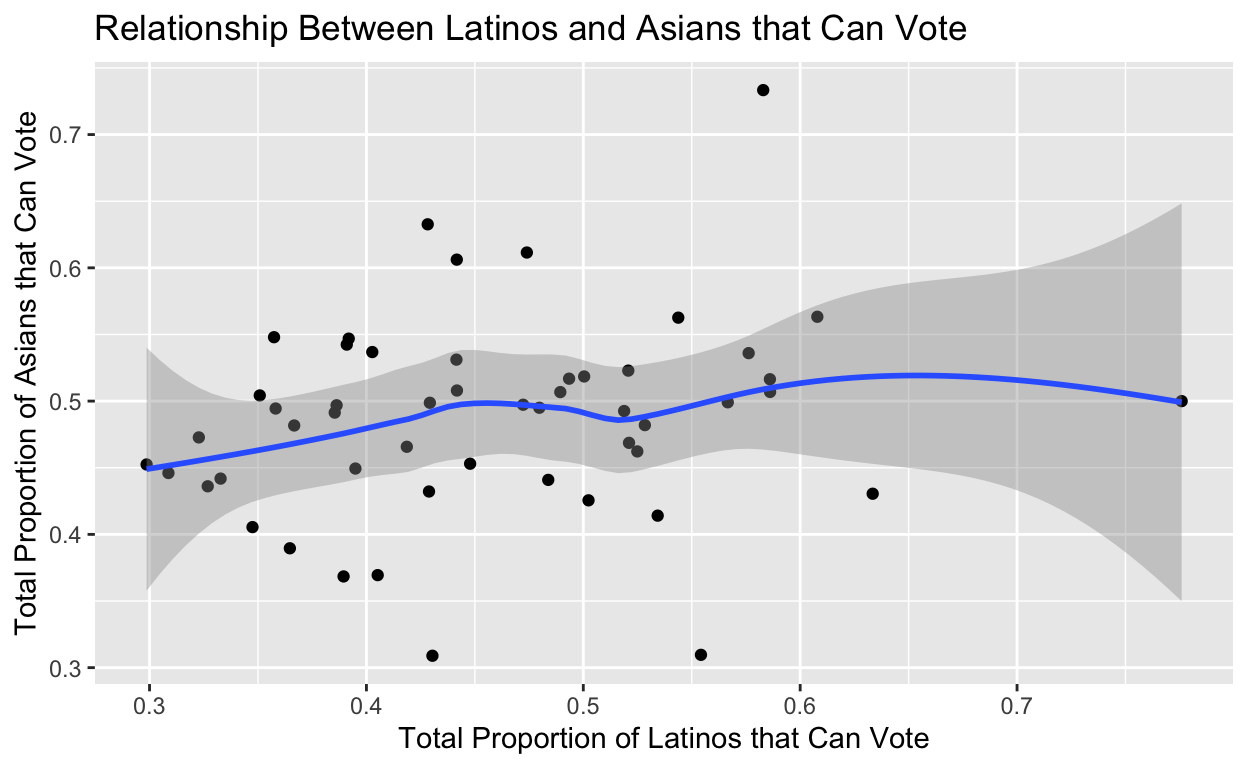
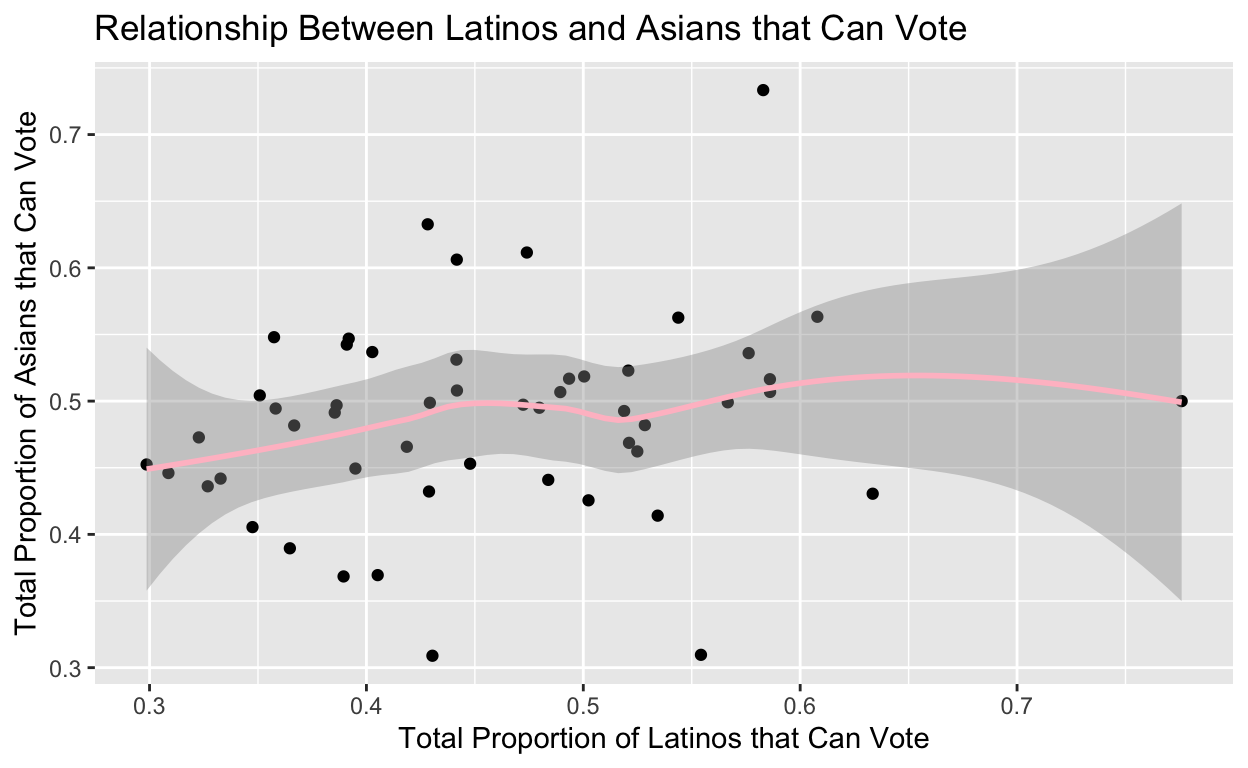
.

diff --git a/index.html b/index.html
@@ -1522,17 +1522,8 @@ code span.wa { color: #5e5e5e; font-style: italic; } /* Warning */
 <h2 id="data-and-research-design">Data and Research Design</h2>
 <p>My final project will be a longitudinal observational study. To investigate the relationship, my explanatory variable is the proportion of Latinos that can vote. My outcome variable is the proportion of Asians that can vote. Lastly, my control variables are the total amount of Latinos in the states and the total amount of Asians in the states.</p>
 <p>here are the definitions of the following variables I will use:</p>
-<p>GEONAME: The name of the geographic area, specifically states across the U.S.
-TOT_EST_Asian: The rounded estimate of the total number of Asians in a geographical area.
-TOT_EST_Latino: The rounded estimate of the total number of Latinos in a geographical area.
-ADU_EST_Asian: The rounded estimate of the total number of people 18 years of age or older for Asians in a specific state.
-ADU_EST_Latino: The rounded estimate of the total number of people 18 years of age or older for Latinos in a specific state.
-CIT_EST_Asian: The rounded estimate of the total number of United States citizens for Asians in a geographical area.
-CIT_EST_Latino: The rounded estimate of the total number of United States citizens for Latinos in a geographical area.
-CVAP_EST_Asian: The rounded estimate of the total number of United States citizens 18 years of age or older for Asians in a specific state.
-CVAP_EST_Latino: The rounded estimate of the total number of United States citizens 18 years of age or older for Latinos in a specific state.
-CVAP_prop_Latino: The rounded estimate of the total number of Latinos that are United States citizens 18 years of age or older that can vote.
-CVAP_prop_Asian: The rounded estimate of the total number of Asians that are United States citizens 18 years of age or older that can vote.</p>
+<p>CVAP_prop_Latino: The proportion of Latinos that are United States citizens 18 years of age or older that can vote.
+CVAP_prop_Asian: The proportion of Asians that are United States citizens 18 years of age or older that can vote.</p>
 <div class="layout-chunk" data-layout="l-body">
 <div class="sourceCode">
 <pre class="sourceCode r"><code class="sourceCode r"><span><span class='kw'><a href='https://rdrr.io/r/base/library.html'>library</a></span><span class='op'>(</span><span class='va'><a href='https://tidyverse.tidyverse.org'>tidyverse</a></span><span class='op'>)</span></span>
@@ -1552,29 +1543,15 @@ CVAP_prop_Asian: The rounded estimate of the total number of Asians that are Uni
 <span>    names_from <span class='op'>=</span> <span class='va'>LNTITLE</span>,</span>
 <span>    values_from <span class='op'>=</span> <span class='fu'><a href='https://rdrr.io/r/base/c.html'>c</a></span><span class='op'>(</span><span class='va'>TOT_EST</span>, <span class='va'>ADU_EST</span>, <span class='va'>CIT_EST</span>, <span class='va'>CVAP_EST</span><span class='op'>)</span></span>
 <span>  <span class='op'>)</span> <span class='op'>|&gt;</span></span>
-<span>  <span class='fu'><a href='https://dplyr.tidyverse.org/reference/mutate.html'>mutate</a></span><span class='op'>(</span>CVAP_prop_Latino <span class='op'>=</span> <span class='va'>CVAP_EST_Latino</span><span class='op'>/</span><span class='va'>TOT_EST_Latino</span><span class='op'>)</span> <span class='op'>|&gt;</span></span>
-<span>  <span class='fu'><a href='https://dplyr.tidyverse.org/reference/mutate.html'>mutate</a></span><span class='op'>(</span>CVAP_prop_Asian <span class='op'>=</span> <span class='va'>CVAP_EST_Asian</span><span class='op'>/</span><span class='va'>TOT_EST_Asian</span><span class='op'>)</span></span>
-<span><span class='va'>cvap_data</span></span></code></pre>
+<span>  <span class='fu'><a href='https://dplyr.tidyverse.org/reference/mutate.html'>mutate</a></span><span class='op'>(</span>CVAP_prop_Latino <span class='op'>=</span> <span class='va'>CVAP_EST_Latino</span><span class='op'>/</span><span class='va'>TOT_EST_Latino</span>,</span>
+<span>         CVAP_prop_Asian <span class='op'>=</span> <span class='va'>CVAP_EST_Asian</span><span class='op'>/</span><span class='va'>TOT_EST_Asian</span>,</span>
+<span>         ADU_prop_Latino <span class='op'>=</span> <span class='va'>ADU_EST_Latino</span><span class='op'>/</span><span class='va'>TOT_EST_Latino</span>,</span>
+<span>         ADU_prop_Asian <span class='op'>=</span> <span class='va'>ADU_EST_Asian</span><span class='op'>/</span><span class='va'>TOT_EST_Asian</span>,</span>
+<span>         NONCIT_prop_Latino <span class='op'>=</span> <span class='op'>(</span><span class='va'>TOT_EST_Latino</span> <span class='op'>-</span> <span class='va'>CIT_EST_Latino</span><span class='op'>)</span><span class='op'>/</span><span class='va'>TOT_EST_Latino</span>,</span>
+<span>         NONCIT_prop_Asian <span class='op'>=</span> <span class='op'>(</span><span class='va'>TOT_EST_Asian</span> <span class='op'>-</span> <span class='va'>CIT_EST_Asian</span><span class='op'>)</span><span class='op'>/</span><span class='va'>TOT_EST_Asian</span><span class='op'>)</span></span></code></pre>
 </div>
-<pre><code># A tibble: 52 × 11
-   GEONAME     TOT_E…¹ TOT_E…² ADU_E…³ ADU_E…⁴ CIT_E…⁵ CIT_E…⁶ CVAP_…⁷
-   &lt;chr&gt;         &lt;int&gt;   &lt;int&gt;   &lt;int&gt;   &lt;int&gt;   &lt;int&gt;   &lt;int&gt;   &lt;int&gt;
- 1 Alabama       63730  1.98e5   48885  1.21e5   40295  1.38e5   28160
- 2 Alaska        44940  5.02e4   34315  3.27e4   31995  4.66e4   22780
- 3 Arizona      210115  2.10e6  168125  1.39e6  143765  1.73e6  108595
- 4 Arkansas      42870  2.13e5   32790  1.30e5   27145  1.48e5   18695
- 5 California  5473875  1.51e7 4465975  1.04e7 4254285  1.17e7 3347230
- 6 Colorado     163860  1.16e6  128030  7.68e5  114960  9.53e5   84960
- 7 Connecticut  157825  5.52e5  123535  3.78e5  101065  4.56e5   72955
- 8 Delaware      36455  8.48e4   28645  5.41e4   22455  6.59e4   15755
- 9 District o…   25645  7.18e4   23470  5.31e4   17435  4.87e4   15545
-10 Florida      544315  5.02e6  439775  3.78e6  397430  3.87e6  306245
-# … with 42 more rows, 3 more variables: CVAP_EST_Latino &lt;int&gt;,
-#   CVAP_prop_Latino &lt;dbl&gt;, CVAP_prop_Asian &lt;dbl&gt;, and abbreviated
-#   variable names ¹TOT_EST_Asian, ²TOT_EST_Latino, ³ADU_EST_Asian,
-#   ⁴ADU_EST_Latino, ⁵CIT_EST_Asian, ⁶CIT_EST_Latino, ⁷CVAP_EST_Asian</code></pre>
 </div>
-<h2 id="distribution-plot">Distribution Plot</h2>
+<h3 id="distribution-plot">Distribution Plot</h3>
 <div class="layout-chunk" data-layout="l-body">
 <div class="sourceCode">
 <pre class="sourceCode r"><code class="sourceCode r"><span><span class='va'>cvap_data</span> <span class='op'>|&gt;</span></span>
@@ -1587,40 +1564,100 @@ CVAP_prop_Asian: The rounded estimate of the total number of Asians that are Uni
 <p><img src="index_files/figure-html5/unnamed-chunk-3-1.png" width="624" /></p>
 </div>
 <h2 id="results">Results</h2>
-<h2 id="plot-summary">Plot Summary</h2>
+<h3 id="plot-summary">Plot Summary</h3>
 <div class="layout-chunk" data-layout="l-body">
 <div class="sourceCode">
 <pre class="sourceCode r"><code class="sourceCode r"><span><span class='va'>cvap_data</span> <span class='op'>|&gt;</span></span>
 <span>  <span class='fu'><a href='https://ggplot2.tidyverse.org/reference/ggplot.html'>ggplot</a></span><span class='op'>(</span><span class='fu'><a href='https://ggplot2.tidyverse.org/reference/aes.html'>aes</a></span><span class='op'>(</span>x <span class='op'>=</span> <span class='va'>CVAP_prop_Latino</span>,</span>
 <span>                     y <span class='op'>=</span> <span class='va'>CVAP_prop_Asian</span><span class='op'>)</span><span class='op'>)</span> <span class='op'>+</span></span>
 <span>  <span class='fu'><a href='https://ggplot2.tidyverse.org/reference/geom_point.html'>geom_point</a></span><span class='op'>(</span><span class='op'>)</span> <span class='op'>+</span></span>
-<span>  <span class='fu'><a href='https://ggplot2.tidyverse.org/reference/geom_smooth.html'>geom_smooth</a></span><span class='op'>(</span><span class='op'>)</span> <span class='op'>+</span></span>
+<span>  <span class='fu'><a href='https://ggplot2.tidyverse.org/reference/geom_smooth.html'>geom_smooth</a></span><span class='op'>(</span>color <span class='op'>=</span> <span class='st'>"pink"</span><span class='op'>)</span> <span class='op'>+</span></span>
 <span>  <span class='fu'><a href='https://ggplot2.tidyverse.org/reference/labs.html'>labs</a></span><span class='op'>(</span>x <span class='op'>=</span> <span class='st'>"Total Proportion of Latinos that Can Vote"</span>,</span>
 <span>       y <span class='op'>=</span> <span class='st'>"Total Proportion of Asians that Can Vote"</span>,</span>
 <span>       title <span class='op'>=</span> <span class='st'>"Relationship Between Latinos and Asians that Can Vote"</span><span class='op'>)</span></span></code></pre>
 </div>
 <p><img src="index_files/figure-html5/unnamed-chunk-4-1.png" width="624" /></p>
 </div>
-<h2 id="regression-results">Regression Results</h2>
+<h3 id="regression-results">Regression Results</h3>
 <div class="layout-chunk" data-layout="l-body">
 <div class="sourceCode">
-<pre class="sourceCode r"><code class="sourceCode r"><span><span class='fu'><a href='https://rdrr.io/r/base/summary.html'>summary</a></span><span class='op'>(</span><span class='fu'><a href='https://rdrr.io/r/stats/lm.html'>lm</a></span><span class='op'>(</span><span class='va'>CVAP_prop_Asian</span> <span class='op'>~</span> <span class='va'>CVAP_prop_Latino</span>, data <span class='op'>=</span> <span class='va'>cvap_data</span><span class='op'>)</span><span class='op'>)</span><span class='op'>$</span><span class='va'>coefficients</span></span></code></pre>
+<pre class="sourceCode r"><code class="sourceCode r"><span><span class='va'>regresults</span> <span class='op'>&lt;-</span> <span class='fu'><a href='https://rdrr.io/r/base/summary.html'>summary</a></span><span class='op'>(</span><span class='fu'><a href='https://rdrr.io/r/stats/lm.html'>lm</a></span><span class='op'>(</span><span class='va'>CVAP_prop_Asian</span> <span class='op'>~</span> <span class='va'>CVAP_prop_Latino</span>, data <span class='op'>=</span> <span class='va'>cvap_data</span><span class='op'>)</span><span class='op'>)</span><span class='op'>$</span><span class='va'>coefficients</span></span>
+<span><span class='va'>regresults</span> <span class='op'>|&gt;</span></span>
+<span>  <span class='fu'>knitr</span><span class='fu'>::</span><span class='fu'><a href='https://rdrr.io/pkg/knitr/man/kable.html'>kable</a></span><span class='op'>(</span>digits <span class='op'>=</span> <span class='fl'>2</span><span class='op'>)</span></span></code></pre>
 </div>
-<pre><code>                  Estimate Std. Error  t value     Pr(&gt;|t|)
-(Intercept)      0.4146608 0.04985678 8.317038 5.399427e-11
-CVAP_prop_Latino 0.1577213 0.10641241 1.482170 1.445706e-01</code></pre>
+<table>
+<thead>
+<tr class="header">
+<th style="text-align: left;"></th>
+<th style="text-align: right;">Estimate</th>
+<th style="text-align: right;">Std. Error</th>
+<th style="text-align: right;">t value</th>
+<th style="text-align: right;">Pr(&gt;|t|)</th>
+</tr>
+</thead>
+<tbody>
+<tr class="odd">
+<td style="text-align: left;">(Intercept)</td>
+<td style="text-align: right;">0.41</td>
+<td style="text-align: right;">0.05</td>
+<td style="text-align: right;">8.32</td>
+<td style="text-align: right;">0.00</td>
+</tr>
+<tr class="even">
+<td style="text-align: left;">CVAP_prop_Latino</td>
+<td style="text-align: right;">0.16</td>
+<td style="text-align: right;">0.11</td>
+<td style="text-align: right;">1.48</td>
+<td style="text-align: right;">0.14</td>
+</tr>
+</tbody>
+</table>
 </div>
-<h2 id="multiple-regression-plot">Multiple Regression Plot</h2>
+<h3 id="multiple-regression-results">Multiple Regression Results</h3>
 <div class="layout-chunk" data-layout="l-body">
 <div class="sourceCode">
-<pre class="sourceCode r"><code class="sourceCode r"><span><span class='va'>cvap_data</span> <span class='op'>|&gt;</span></span>
-<span>  <span class='fu'><a href='https://ggplot2.tidyverse.org/reference/ggplot.html'>ggplot</a></span><span class='op'>(</span><span class='fu'><a href='https://ggplot2.tidyverse.org/reference/aes.html'>aes</a></span><span class='op'>(</span>x <span class='op'>=</span> <span class='va'>CVAP_prop_Latino</span>,</span>
-<span>             y <span class='op'>=</span> <span class='va'>CVAP_prop_Asian</span><span class='op'>)</span><span class='op'>)</span></span></code></pre>
+<pre class="sourceCode r"><code class="sourceCode r"><span><span class='va'>multiregresults</span> <span class='op'>&lt;-</span> <span class='fu'><a href='https://rdrr.io/r/base/summary.html'>summary</a></span><span class='op'>(</span><span class='fu'><a href='https://rdrr.io/r/stats/lm.html'>lm</a></span><span class='op'>(</span>data <span class='op'>=</span> <span class='va'>cvap_data</span>, <span class='va'>CVAP_prop_Latino</span> <span class='op'>~</span> <span class='va'>ADU_prop_Latino</span> <span class='op'>+</span> <span class='va'>NONCIT_prop_Latino</span><span class='op'>)</span><span class='op'>)</span><span class='op'>$</span><span class='va'>coefficients</span></span>
+<span><span class='va'>multiregresults</span> <span class='op'>|&gt;</span></span>
+<span>  <span class='fu'>knitr</span><span class='fu'>::</span><span class='fu'><a href='https://rdrr.io/pkg/knitr/man/kable.html'>kable</a></span><span class='op'>(</span>digits <span class='op'>=</span> <span class='fl'>2</span><span class='op'>)</span></span></code></pre>
 </div>
-<p><img src="index_files/figure-html5/unnamed-chunk-6-1.png" width="624" /></p>
+<table>
+<thead>
+<tr class="header">
+<th style="text-align: left;"></th>
+<th style="text-align: right;">Estimate</th>
+<th style="text-align: right;">Std. Error</th>
+<th style="text-align: right;">t value</th>
+<th style="text-align: right;">Pr(&gt;|t|)</th>
+</tr>
+</thead>
+<tbody>
+<tr class="odd">
+<td style="text-align: left;">(Intercept)</td>
+<td style="text-align: right;">0.00</td>
+<td style="text-align: right;">0.01</td>
+<td style="text-align: right;">0.12</td>
+<td style="text-align: right;">0.9</td>
+</tr>
+<tr class="even">
+<td style="text-align: left;">ADU_prop_Latino</td>
+<td style="text-align: right;">1.00</td>
+<td style="text-align: right;">0.01</td>
+<td style="text-align: right;">102.53</td>
+<td style="text-align: right;">0.0</td>
+</tr>
+<tr class="odd">
+<td style="text-align: left;">NONCIT_prop_Latino</td>
+<td style="text-align: right;">-0.92</td>
+<td style="text-align: right;">0.01</td>
+<td style="text-align: right;">-174.88</td>
+<td style="text-align: right;">0.0</td>
+</tr>
+</tbody>
+</table>
 </div>
+<h3 id="statistical-significance">Statistical Significance</h3>
 <h2 id="conclusion">Conclusion</h2>
-<div class="sourceCode" id="cb3"><pre class="sourceCode r distill-force-highlighting-css"><code class="sourceCode r"></code></pre></div>
+<div class="sourceCode" id="cb1"><pre class="sourceCode r distill-force-highlighting-css"><code class="sourceCode r"></code></pre></div>
 <!--radix_placeholder_article_footer-->
 <!--/radix_placeholder_article_footer-->
 </div>
